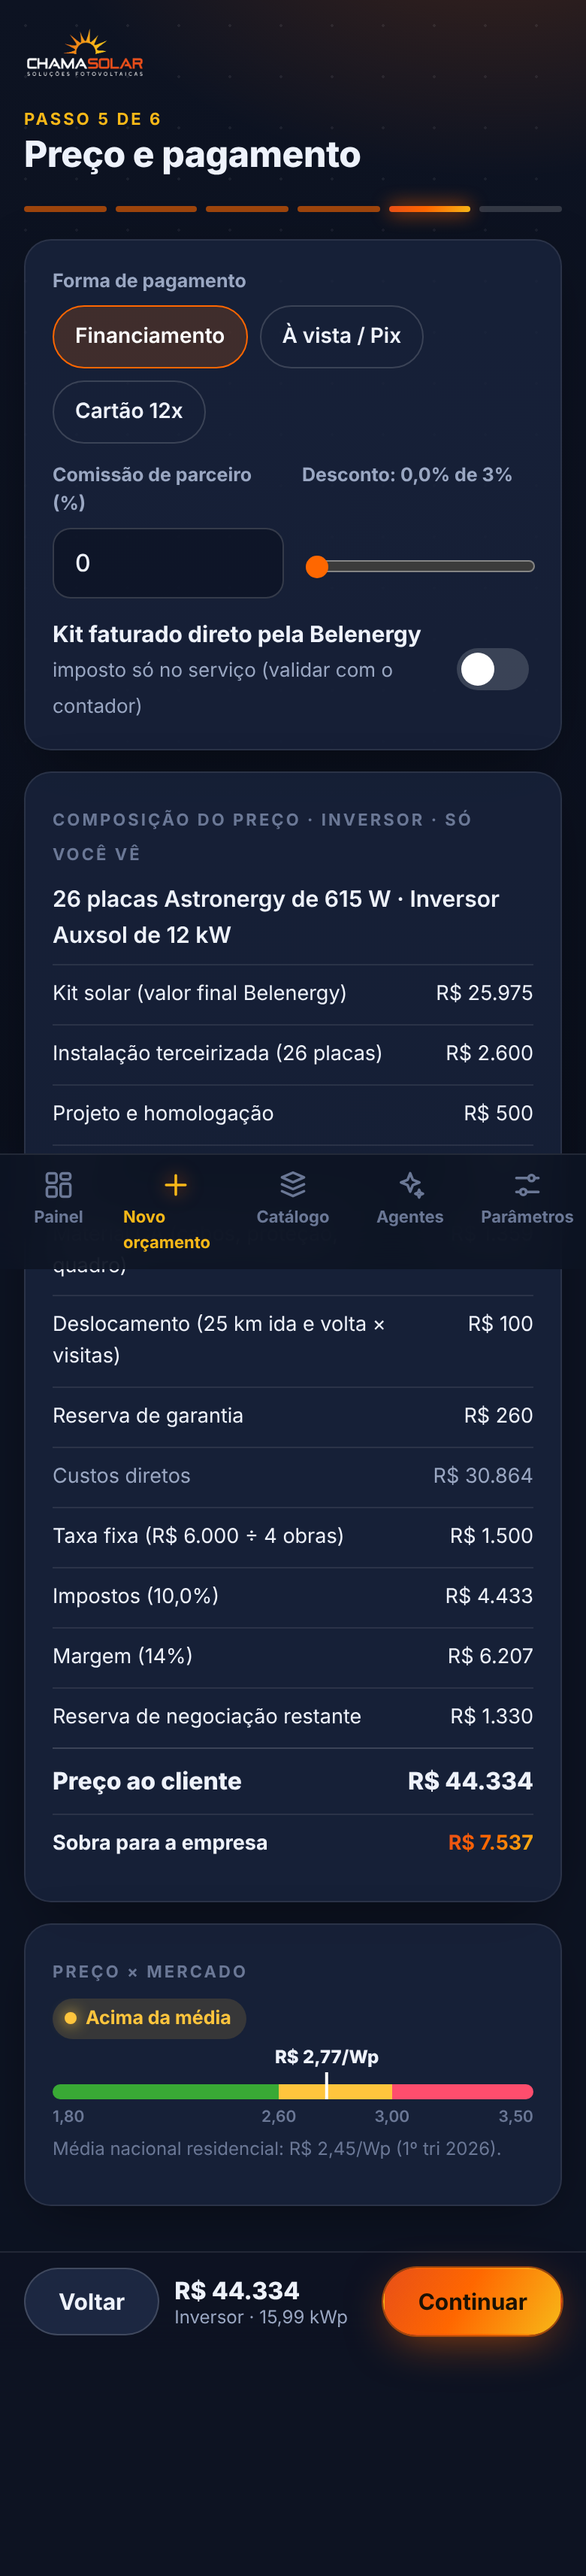
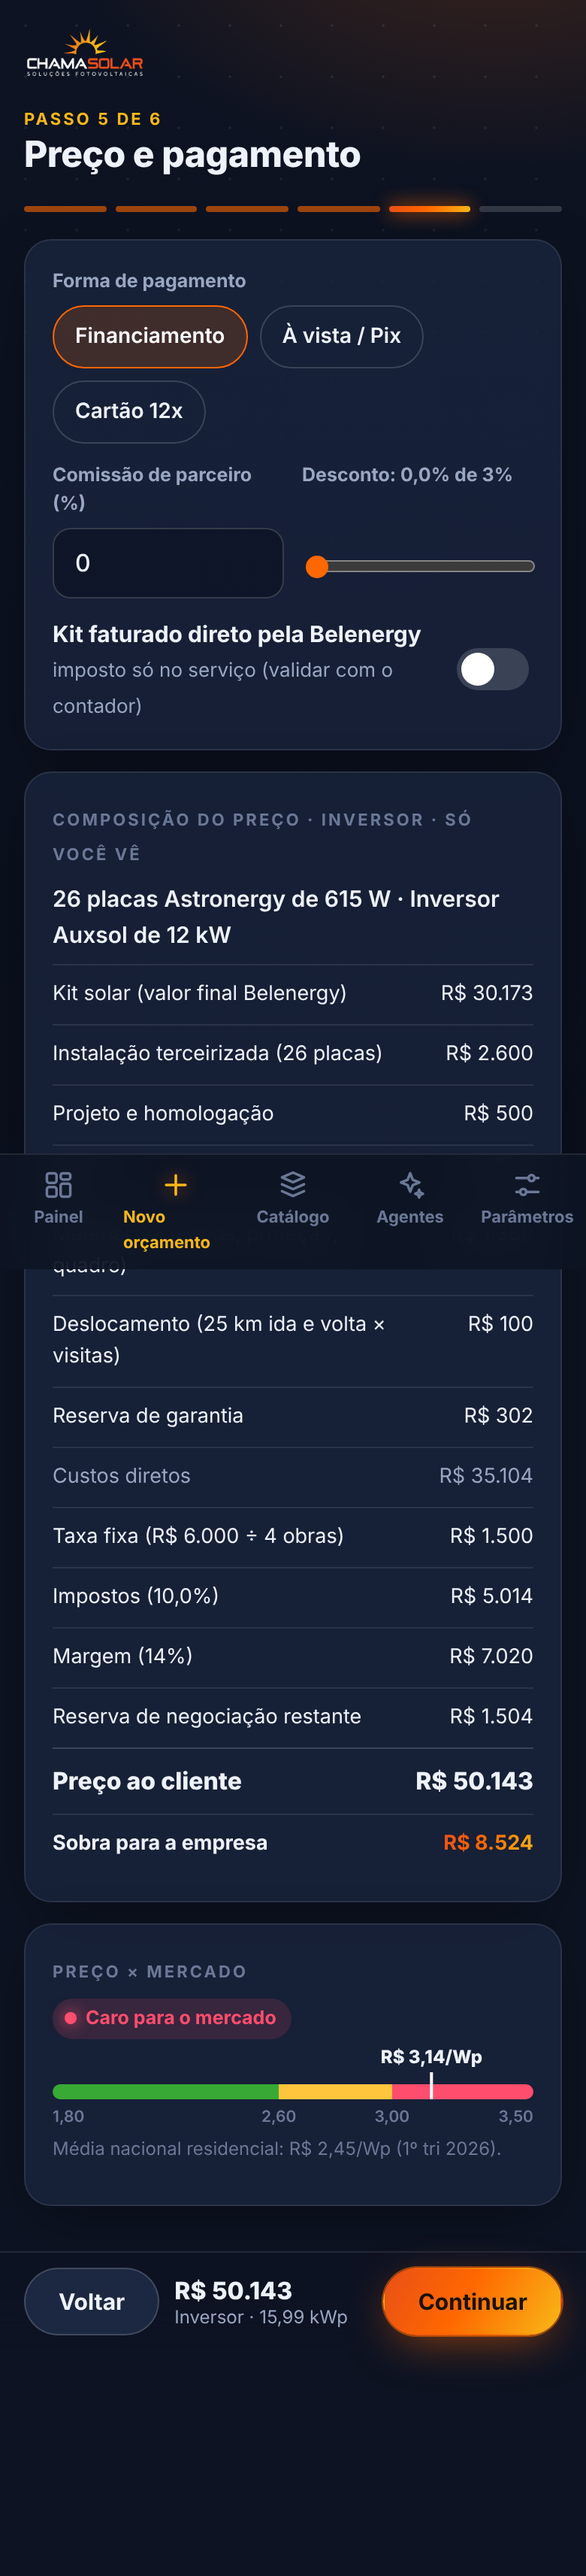
solar: tira preços reais de integrador do código (valores fictícios no teste)
Claude-Session: https://claude.ai/code/session_015QPda75H8frapF8mWbJQ5q

diff --git a/solar-teste/js/catalogo.js b/solar-teste/js/catalogo.js
@@ -10,15 +10,15 @@
 
   // Módulos com preço real lido no portal em 03/11/2026 (amostra). Ficha elétrica estimada.
   const amostraBelenergy = {
-    fornecedor: 'Belenergy', origem: 'amostra lida no portal', capturadoEm: '2026-11-03T23:10:00-03:00',
+    fornecedor: 'Belenergy', origem: 'amostra FICTÍCIA (formato do portal)', capturadoEm: '2026-11-03T23:10:00-03:00',
     produtos: [
-      { sku: 'MFMA-1.3-MO-66-425W', tipo: 'modulo', marca: 'Maxeon', descricao: 'Módulo monofacial 66 cél. P type 425 W black frame', potenciaW: 425, preco: 335.75, precoPorWp: 0.79, estoque: 2126, disponivelSP: true },
-      { sku: 'MFAS-1.4-BF-144-575W', tipo: 'modulo', marca: 'Astronergy', descricao: 'Módulo bifacial 144 cél. N type 575 W', potenciaW: 575, preco: 557.75, precoPorWp: 0.97, estoque: 15355, disponivelSP: true },
-      { sku: 'MFAS-1.4-BF-144-580W', tipo: 'modulo', marca: 'Astronergy', descricao: 'Módulo bifacial 144 cél. N type 580 W', potenciaW: 580, preco: 562.61, precoPorWp: 0.97, estoque: 13570, disponivelSP: true },
-      { sku: 'MFAS-1.4-BF-132-615W', tipo: 'modulo', marca: 'Astronergy', descricao: 'Módulo bifacial 132 cél. N type 615 W', potenciaW: 615, preco: 559.04, precoPorWp: 0.91, estoque: 3365, disponivelSP: true },
-      { sku: 'MFJA-1.5-BF-132-615W', tipo: 'modulo', marca: 'JA Solar', descricao: 'Módulo bifacial 132 cél. N type 615 W', potenciaW: 615, preco: 590.40, precoPorWp: 0.96, estoque: 119464, disponivelSP: true },
-      { sku: 'MFJA-1.5-BF-132-620W', tipo: 'modulo', marca: 'JA Solar', descricao: 'Módulo bifacial 132 cél. N type 620 W', potenciaW: 620, preco: 620.00, precoPorWp: 1.00, estoque: 42539, disponivelSP: true },
-      { sku: 'MFJA-1.4-BF-132-625W', tipo: 'modulo', marca: 'JA Solar', descricao: 'Módulo bifacial 132 cél. N type 625 W', potenciaW: 625, preco: 625.01, precoPorWp: 1.00, estoque: 14931, disponivelSP: true },
+      { sku: 'MFMA-1.3-MO-66-425W', tipo: 'modulo', marca: 'Maxeon', descricao: 'Módulo monofacial 66 cél. P type 425 W black frame', potenciaW: 425, preco: 488.75, precoPorWp: 1.15, estoque: 1000, disponivelSP: true },
+      { sku: 'MFAS-1.4-BF-144-575W', tipo: 'modulo', marca: 'Astronergy', descricao: 'Módulo bifacial 144 cél. N type 575 W', potenciaW: 575, preco: 661.25, precoPorWp: 1.15, estoque: 1000, disponivelSP: true },
+      { sku: 'MFAS-1.4-BF-144-580W', tipo: 'modulo', marca: 'Astronergy', descricao: 'Módulo bifacial 144 cél. N type 580 W', potenciaW: 580, preco: 667.00, precoPorWp: 1.15, estoque: 1000, disponivelSP: true },
+      { sku: 'MFAS-1.4-BF-132-615W', tipo: 'modulo', marca: 'Astronergy', descricao: 'Módulo bifacial 132 cél. N type 615 W', potenciaW: 615, preco: 707.25, precoPorWp: 1.15, estoque: 1000, disponivelSP: true },
+      { sku: 'MFJA-1.5-BF-132-615W', tipo: 'modulo', marca: 'JA Solar', descricao: 'Módulo bifacial 132 cél. N type 615 W', potenciaW: 615, preco: 707.25, precoPorWp: 1.15, estoque: 1000, disponivelSP: true },
+      { sku: 'MFJA-1.5-BF-132-620W', tipo: 'modulo', marca: 'JA Solar', descricao: 'Módulo bifacial 132 cél. N type 620 W', potenciaW: 620, preco: 713.00, precoPorWp: 1.15, estoque: 1000, disponivelSP: true },
+      { sku: 'MFJA-1.4-BF-132-625W', tipo: 'modulo', marca: 'JA Solar', descricao: 'Módulo bifacial 132 cél. N type 625 W', potenciaW: 625, preco: 718.75, precoPorWp: 1.15, estoque: 1000, disponivelSP: true },
     ],
   };
 

diff --git a/solar-teste/js/cotador.js b/solar-teste/js/cotador.js
@@ -140,16 +140,16 @@
     } else if (s.etapa === 6) {
       e.itensCA = entrada.itens || s.opcoes.itens;
       const kwp = (e.modulo.qtd * e.modulo.potenciaW) / 1000;
-      // calibrado no kit real: 4,3 kWp (7×615 W Astronergy + Huawei 4 kW + colonial) = R$ 6.848,21
+      // valores FICTÍCIOS de teste: o preço real vem só do robô / banco, nunca do código
       const fatorMod = 1 + (PORTAL.modulos.findIndex((m) => m[0] === e.modulo.sku) / PORTAL.modulos.length) * 0.12;
       const fatorInv = e.inversor.tipo === 'hibrido' ? 1.55 : e.inversor.tipo === 'micro' ? 1.25 : 1;
       const extras = [...(e.itensCC || []), ...(e.itensCA || [])].reduce((t, i) => t + (ADIC[i.sku] || 0) * i.qtd, 0);
       const semEstr = e.estrutura.semEstrutura ? 0.88 : 1;
-      const valorProdutos = r2(kwp * 1000 * 1.5926 * fatorMod * fatorInv * semEstr + extras);
+      const valorProdutos = r2(kwp * 1000 * 1.85 * fatorMod * fatorInv * semEstr + extras);
       s.opcoes = { fretes: PORTAL.fretes, pagamentos: PORTAL.pagamentos, valorProdutos };
       s.etapa = 7;
     } else if (s.etapa === 7) {
-      const frete = /Entrega no Cliente/.test(e.frete) ? r2(s.opcoes.valorProdutos * 0.0761) : 0; /* real: R$ 521,11 sobre R$ 6.848,21 até Ribeirão Preto */
+      const frete = /Entrega no Cliente/.test(e.frete) ? r2(s.opcoes.valorProdutos * 0.08) : 0; /* fictício */
       s.final = { valorKit: r2(s.opcoes.valorProdutos + frete), valorProdutos: s.opcoes.valorProdutos, frete, numero: 'SIMULADO' };
       s.etapa = 8;
     }

diff --git a/fontes/solar-belenergy/LEIAME.md b/fontes/solar-belenergy/LEIAME.md
@@ -13,7 +13,7 @@
 | 5 | Componentes elétricos CA | Opcional |
 | 6 | Confirmação | Nome da proposta, estado e cidade de entrega, frete (Cliente Retira / Transportadora escolhida pelo cliente / Belenus Entrega no Cliente), forma de pagamento → **Valor da proposta** |
 
-Kit real de referência (cotado 2× em 04/11, mesmo resultado): 7 × Astronergy 615 W + Huawei 4 kW + estrutura colonial = **R$ 6.848,21** (≈ R$ 1,59/Wp) com Cliente Retira; **R$ 7.369,32** com "Belenus Entrega no Cliente" até Ribeirão Preto (frete R$ 521,11).
+Os valores reais cotados ficam só no banco (tabelas `sol_`), nunca no código ou na documentação.
 Campos da confirmação: `#nomeOrcamento`, `#selectEstado`, `#selectCidade`, `#selectFrete` (entrega já vem SP / Ribeirão Preto).
 O robô **nunca** clica em "Comprar Agora". "Salvar" só com a opção marcada pelo vendedor.
 
